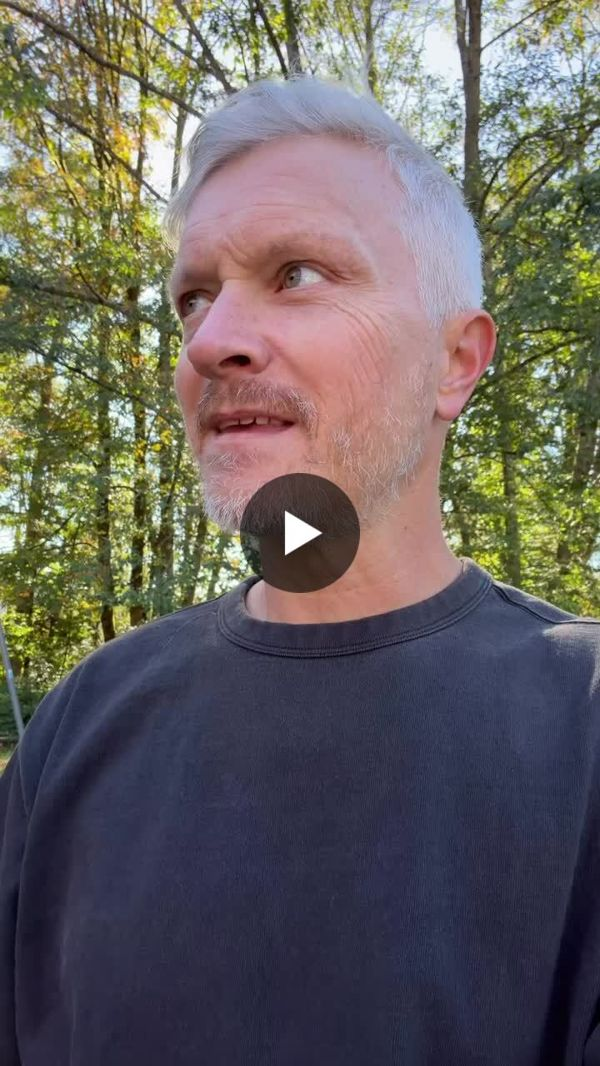
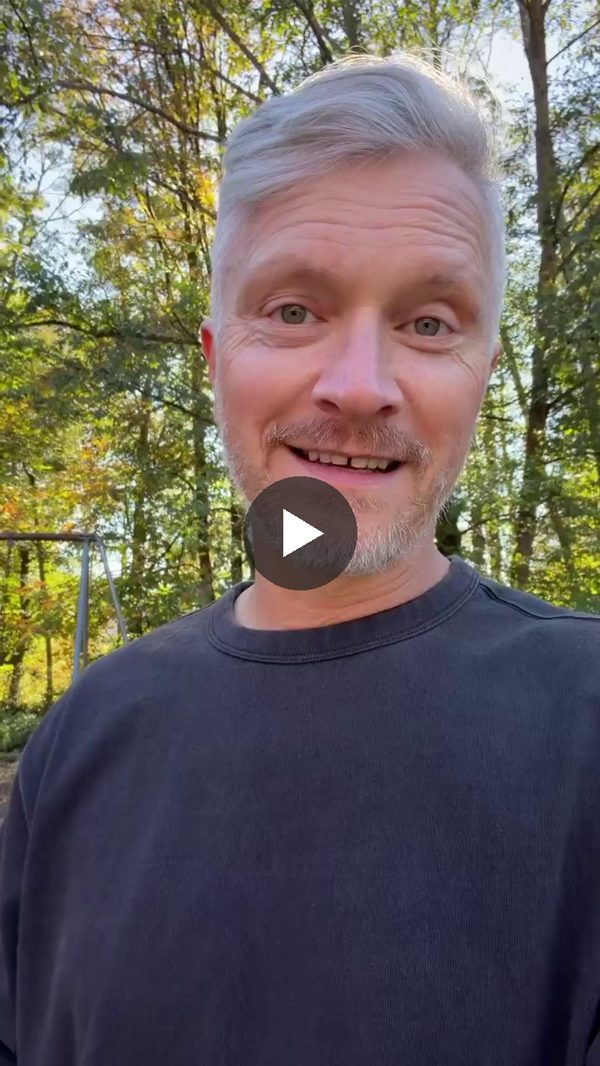
Go live: custom domain, real Instagram link, working contact form, better post thumbnails
Claude-Session: https://claude.ai/code/session_01RrVwx55UnJENiSHHhZYrFH

diff --git a/index.html b/index.html
@@ -3,7 +3,6 @@
 <head>
 <meta charset="utf-8">
 <meta name="viewport" content="width=device-width, initial-scale=1">
-<meta name="robots" content="noindex, nofollow">
 <title>Jeff Caylor</title>
 <meta name="description" content="Founder of Oaktone. Founder, worship leader and playback specialist, exploring atmosphere, technology, beauty and human attention.">
 <link rel="preconnect" href="https://fonts.googleapis.com">
@@ -175,12 +174,17 @@ html{scroll-behavior:smooth}img{max-width:100%}
 <img src="img/back-spot.jpg" alt="Jeff Caylor onstage, seen from behind, facing the lights" style="position: absolute; inset: 0; width: 100%; height: 100%; object-fit: cover; object-position: 30% center; display: block">
 <div style="position: absolute; inset: 0; background: rgba(13,13,12,0.35)"></div>
 <div style="position: relative; max-width: 1360px; margin: 0 auto; padding: 160px 24px; display: flex; justify-content: flex-end">
-<form action="https://formspree.io/f/FORM_ID" method="POST" style="width: 100%; max-width: 560px; background: rgba(13,13,12,0.88); padding: 44px; box-sizing: border-box; display: flex; flex-direction: column; gap: 18px">
+<form id="contact-form" action="https://formsubmit.co/jeff@oaktone.com" method="POST" style="width: 100%; max-width: 560px; background: rgba(13,13,12,0.88); padding: 44px; box-sizing: border-box; display: flex; flex-direction: column; gap: 18px">
 <h2 style="margin: 0; font-family: 'Barlow Condensed', sans-serif; font-weight: 600; font-size: 56px; line-height: 0.95; text-transform: uppercase">Let's talk</h2>
 <p style="margin: 0; color: #CDC5B9">Speaking, consulting, or a good conversation about building something that lasts.</p>
-<label style="display: flex; flex-direction: column; gap: 6px; font-size: 12px; letter-spacing: 0.16em; text-transform: uppercase; color: #A9A196">Name<input type="text" name="name" style="background: transparent; border: 0; border-bottom: 1px solid #5A554D; color: #F1ECE3; padding: 10px 0; font-size: 17px; letter-spacing: 0; text-transform: none"></label>
-<label style="display: flex; flex-direction: column; gap: 6px; font-size: 12px; letter-spacing: 0.16em; text-transform: uppercase; color: #A9A196">Email<input type="email" name="email" style="background: transparent; border: 0; border-bottom: 1px solid #5A554D; color: #F1ECE3; padding: 10px 0; font-size: 17px; letter-spacing: 0; text-transform: none"></label>
-<label style="display: flex; flex-direction: column; gap: 6px; font-size: 12px; letter-spacing: 0.16em; text-transform: uppercase; color: #A9A196">Message<textarea name="message" rows="4" style="background: transparent; border: 0; border-bottom: 1px solid #5A554D; color: #F1ECE3; padding: 10px 0; font-size: 17px; letter-spacing: 0; text-transform: none; resize: vertical"></textarea></label>
+<label style="display: flex; flex-direction: column; gap: 6px; font-size: 12px; letter-spacing: 0.16em; text-transform: uppercase; color: #A9A196">Name<input type="text" name="name" required autocomplete="name" style="background: transparent; border: 0; border-bottom: 1px solid #5A554D; color: #F1ECE3; padding: 10px 0; font-size: 17px; letter-spacing: 0; text-transform: none"></label>
+<label style="display: flex; flex-direction: column; gap: 6px; font-size: 12px; letter-spacing: 0.16em; text-transform: uppercase; color: #A9A196">Email<input type="email" name="email" required autocomplete="email" style="background: transparent; border: 0; border-bottom: 1px solid #5A554D; color: #F1ECE3; padding: 10px 0; font-size: 17px; letter-spacing: 0; text-transform: none"></label>
+<label style="display: flex; flex-direction: column; gap: 6px; font-size: 12px; letter-spacing: 0.16em; text-transform: uppercase; color: #A9A196">Message<textarea name="message" rows="4" required style="background: transparent; border: 0; border-bottom: 1px solid #5A554D; color: #F1ECE3; padding: 10px 0; font-size: 17px; letter-spacing: 0; text-transform: none; resize: vertical"></textarea></label>
+<input type="hidden" name="_subject" value="New message from jeffcaylor.com">
+<input type="hidden" name="_template" value="table">
+<input type="hidden" name="_next" value="https://jeffcaylor.com/?sent=1#contact">
+<input type="text" name="_honey" tabindex="-1" autocomplete="off" aria-hidden="true" style="position: absolute; left: -9999px; width: 1px; height: 1px; opacity: 0">
+<p id="form-sent" hidden style="margin: 0; color: #BBD7B7">Thanks. Your message is on its way, and I&#8217;ll get back to you soon.</p>
 <button type="submit" style="align-self: flex-start; background: #F1ECE3; color: #0D0D0C; border: 0; padding: 14px 28px; font-weight: 600; font-size: 15px; letter-spacing: 0.08em; text-transform: uppercase; cursor: pointer">Send</button>
 </form>
 </div>
@@ -188,7 +192,7 @@ html{scroll-behavior:smooth}img{max-width:100%}
 
 <footer style="max-width: 1360px; margin: 0 auto; padding: 36px 24px; display: flex; flex-wrap: wrap; gap: 16px 32px; justify-content: space-between; font-size: 13px; letter-spacing: 0.12em; text-transform: uppercase; color: #8E877C">
 <span>© 2026 Jeff Caylor</span>
-<span style="display: flex; flex-wrap: wrap; gap: 24px"><a href="#" style="color: #A9A196">Instagram</a><a href="https://www.linkedin.com/in/jeffcaylor/" target="_blank" rel="noopener" style="color: #A9A196">LinkedIn</a><a href="https://oaktone.com" style="color: #A9A196">Oaktone</a></span>
+<span style="display: flex; flex-wrap: wrap; gap: 24px"><a href="https://www.instagram.com/jeffcaylor/" target="_blank" rel="noopener" style="color: #A9A196">Instagram</a><a href="https://www.linkedin.com/in/jeffcaylor/" target="_blank" rel="noopener" style="color: #A9A196">LinkedIn</a><a href="https://oaktone.com" style="color: #A9A196">Oaktone</a></span>
 </footer>
 
 </div>
@@ -217,6 +221,9 @@ html{scroll-behavior:smooth}img{max-width:100%}
   }
   btns.forEach(function(b){ b.addEventListener('click',function(){ strip.scrollBy({left:Number(b.dataset.dir)*strip.clientWidth*0.8,behavior:'smooth'}); }); });
   strip.addEventListener('scroll',update,{passive:true}); window.addEventListener('resize',update); update();
+})();
+(function(){
+  if(/[?&]sent=1/.test(location.search)){ var m=document.getElementById('form-sent'); if(m) m.hidden=false; }
 })();
 </script>
 </body>

diff --git a/README.md b/README.md
@@ -1,5 +1,5 @@
 # jeffcaylor.com
 
-Single-page personal site for Jeff Caylor. Static HTML, hosted on GitHub Pages.
+Single-page personal site for Jeff Caylor. Static HTML, hosted on GitHub Pages at jeffcaylor.com (see CNAME).
 
-This is a preview build: it is marked noindex so search engines skip it until launch. The contact form needs a Formspree form ID in place of FORM_ID.
+The contact form posts to FormSubmit, which emails messages to Jeff.
